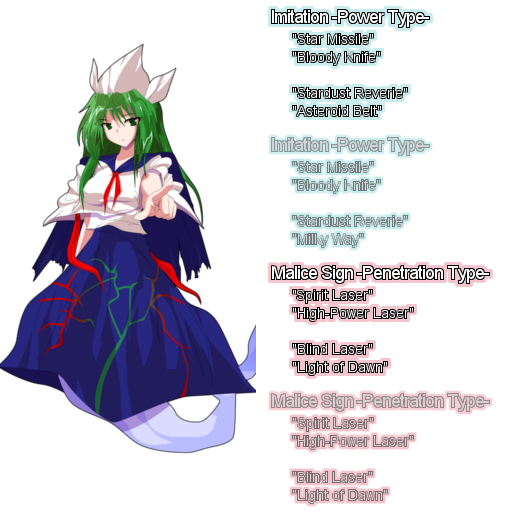
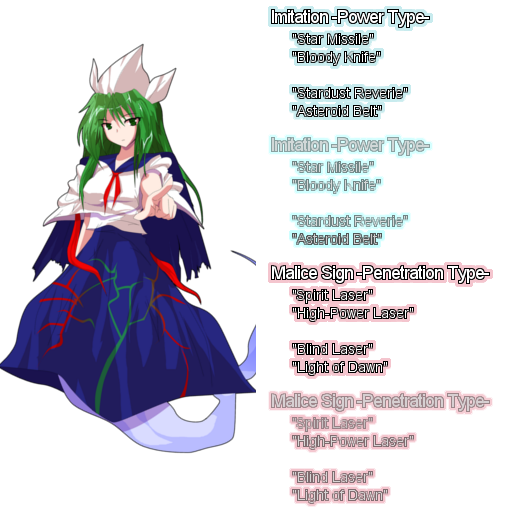
Tweaks

diff --git a/mima/stringdefs.js b/mima/stringdefs.js
@@ -46,13 +46,13 @@
     "th09 Key Slow": "Set the low speed or the charge button",
     "th06 Bomb Reimu A": "Spirit Sign \"Fantasy Seal\"",
     "th06 Bomb Reimu B": "Dream Sign \"Evil-Sealing Circle\"",
-    "th06 Bomb Marisa A": "Magic Sign \"Stardust Reverie\"",
-    "th06 Bomb Marisa B": "Love Sign \"Master Spark\"",
+    "th06 Bomb Marisa A": "Imitation \"Stardust Reverie\"",
+    "th06 Bomb Marisa B": "Malice Sign \"Light of Dawn\"",
     "th07 Bomb Reimu A unfocused": "Spirit Sign \"Fantasy Seal -Spread-\"",
     "th07 Bomb Reimu A focused": "Spirit Sign \"Fantasy Seal -Concentrate-\"",
     "th07 Bomb Reimu B focused": "Dream Sign \"Duplex Barrier\"",
-    "th07 Bomb Marisa A focused": "Magic Sign \"Milky Way\"",
-    "th07 Bomb Marisa B unfocused": "Love Sign \"Non-Directional Laser\"",
+    "th07 Bomb Marisa A focused": "Imitation \"Asteroid Belt\"",
+    "th07 Bomb Marisa B unfocused": "Malice Sign \"Blind Laser\"",
     "th07 Bomb Sakuya A unfocused": "Illusion Sign \"Indiscriminate\"",
     "th07 Bomb Sakuya A focused": "Illusion Sign \"Killing Doll\"",
     "th07 Bomb Sakuya B unfocused": "Time Sign \"Perfect Square\"",

diff --git a/mima/files.js b/mima/files.js
@@ -1,14 +1,14 @@
 {
 	"patch.js": 3616395204,
-	"stringdefs.js": 494112027,
+	"stringdefs.js": 1548512984,
 	"th07/data/face/marisa/face_mr00.png": 1629155555,
 	"th07/data/face/marisa/face_mr01.png": 3017726823,
-	"th07/data/player00/player01.png": 1933560260,
+	"th07/data/player00/player01.png": 885209188,
 	"th07/data/title/replay00.png": 2729098311,
 	"th07/data/title/select01.png": 4142518343,
 	"th07/data/title/select02.png": 515314661,
 	"th07/data/title/sl_pl00.png": 4109797676,
-	"th07/data/title/sl_pl01.png": 767571015,
+	"th07/data/title/sl_pl01.png": 895276459,
 	"th07/data/title/sl_pl02.png": 448145425,
 	"th07/data/title/sl_pltx.png": 513980177,
 	"th07/data/title/sl_text.png": 859582564,
